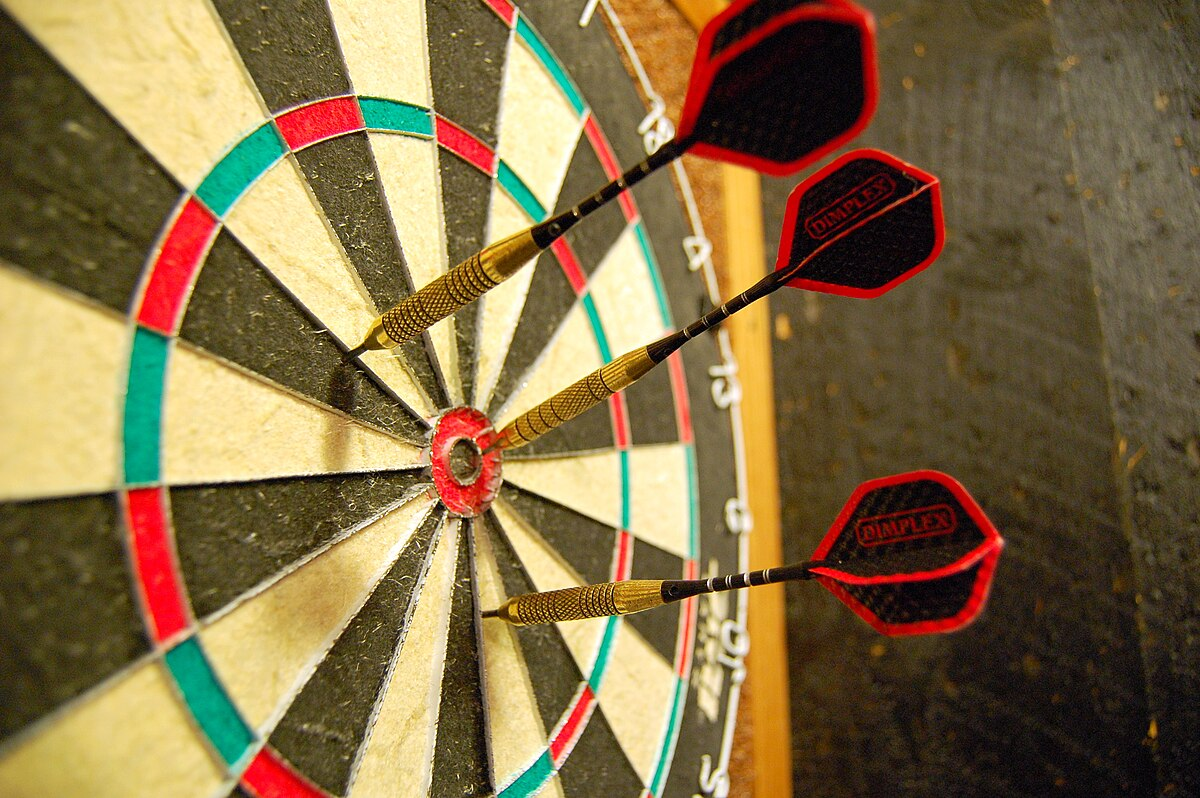
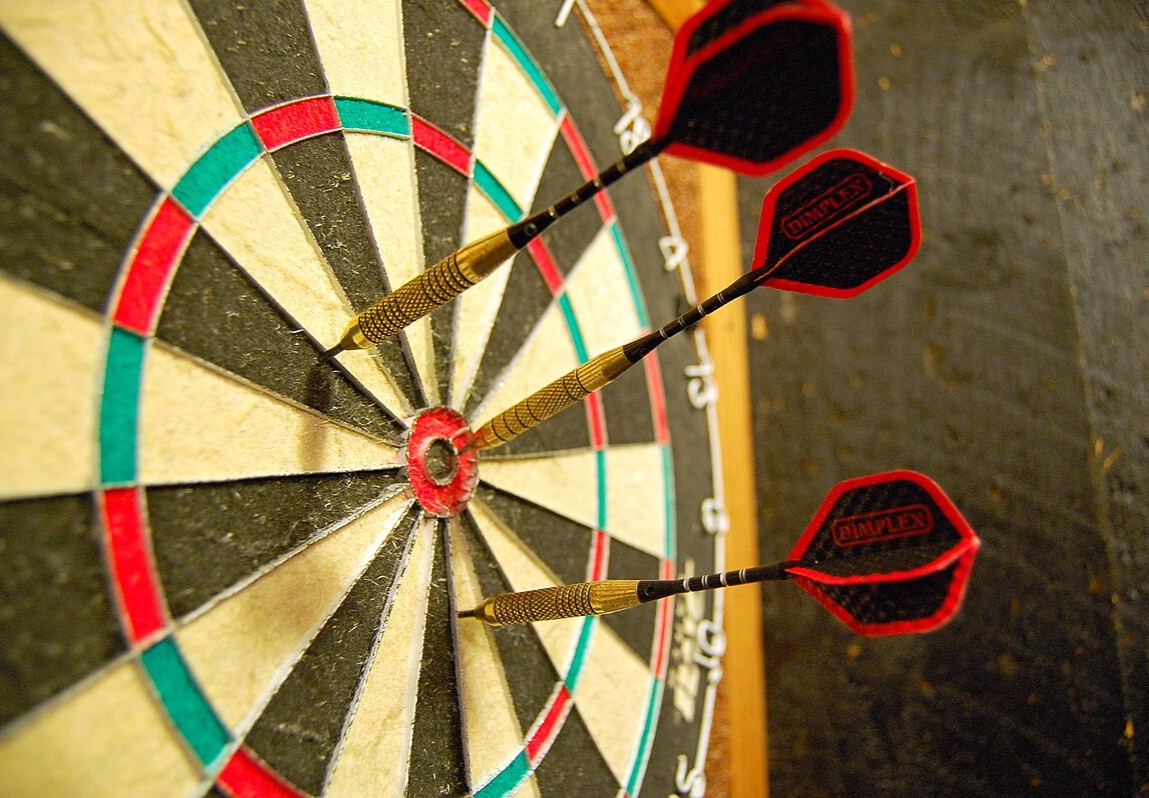
Updating the page

diff --git a/_projects/6_project.md b/_projects/6_project.md
@@ -1,10 +1,10 @@
 ---
 layout: page
-title: project 6
-description: a project with no image
-img:
-importance: 4
-category: fun
+title: Darts Scorer in C++
+description: Baseline darts scorer using C++ as a learning exercise
+img: assets/img/darts.jpg
+importance: 2
+category: Fun + Learning
 ---
 
 Every project has a beautiful feature showcase page.

diff --git a/_projects/2_project.md b/_projects/2_project.md
@@ -1,9 +1,9 @@
 ---
 layout: page
-title: Data collection from TransferMarkt.com
+title: Data collection from TransferMarkt
 description: Python code for a web scraper of TransferMarkt.com using BS4 and Requests 
-img: assets/img/3.jpg
-importance: 2
+img: assets/img/football.jpg
+importance: 3
 category: Academic
 giscus_comments: true
 ---

diff --git a/_projects/9_project.md b/_projects/9_project.md
@@ -1,9 +1,9 @@
 ---
 layout: page
-title: project 9
-description: another project with an image 🎉
-img: assets/img/6.jpg
-importance: 4
+title: Cats and Dogs Predictor
+description: Using Python and RNNs to create an image predictor
+img: assets/img/cats_and_dogs.jpg
+importance: 1
 category: Fun + Learning
 ---
 

diff --git a/_projects/7_project.md b/_projects/7_project.md
@@ -3,7 +3,7 @@ layout: page
 title: Racial Bias in Footballer Ratings
 description: A replication of a paper reviewing whether journalists' ratings of footballers exhibit a degree of racial bias
 img: assets/img/italian newspapers.jpg
-importance: 1
+importance: 2
 category: Academic
 related_publications: true
 ---
